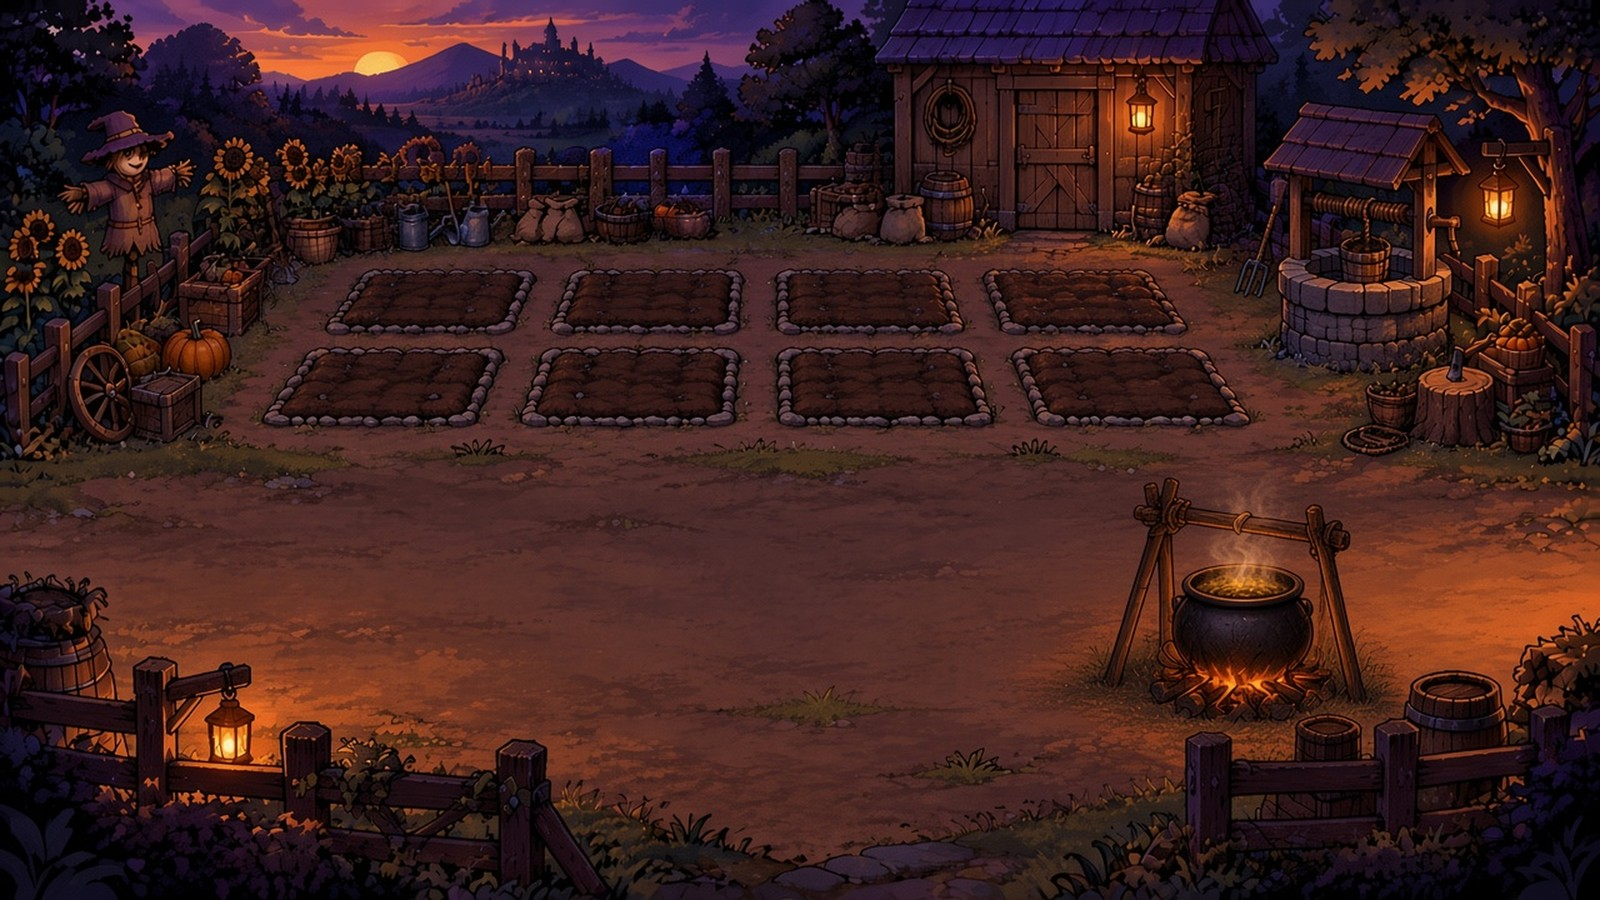
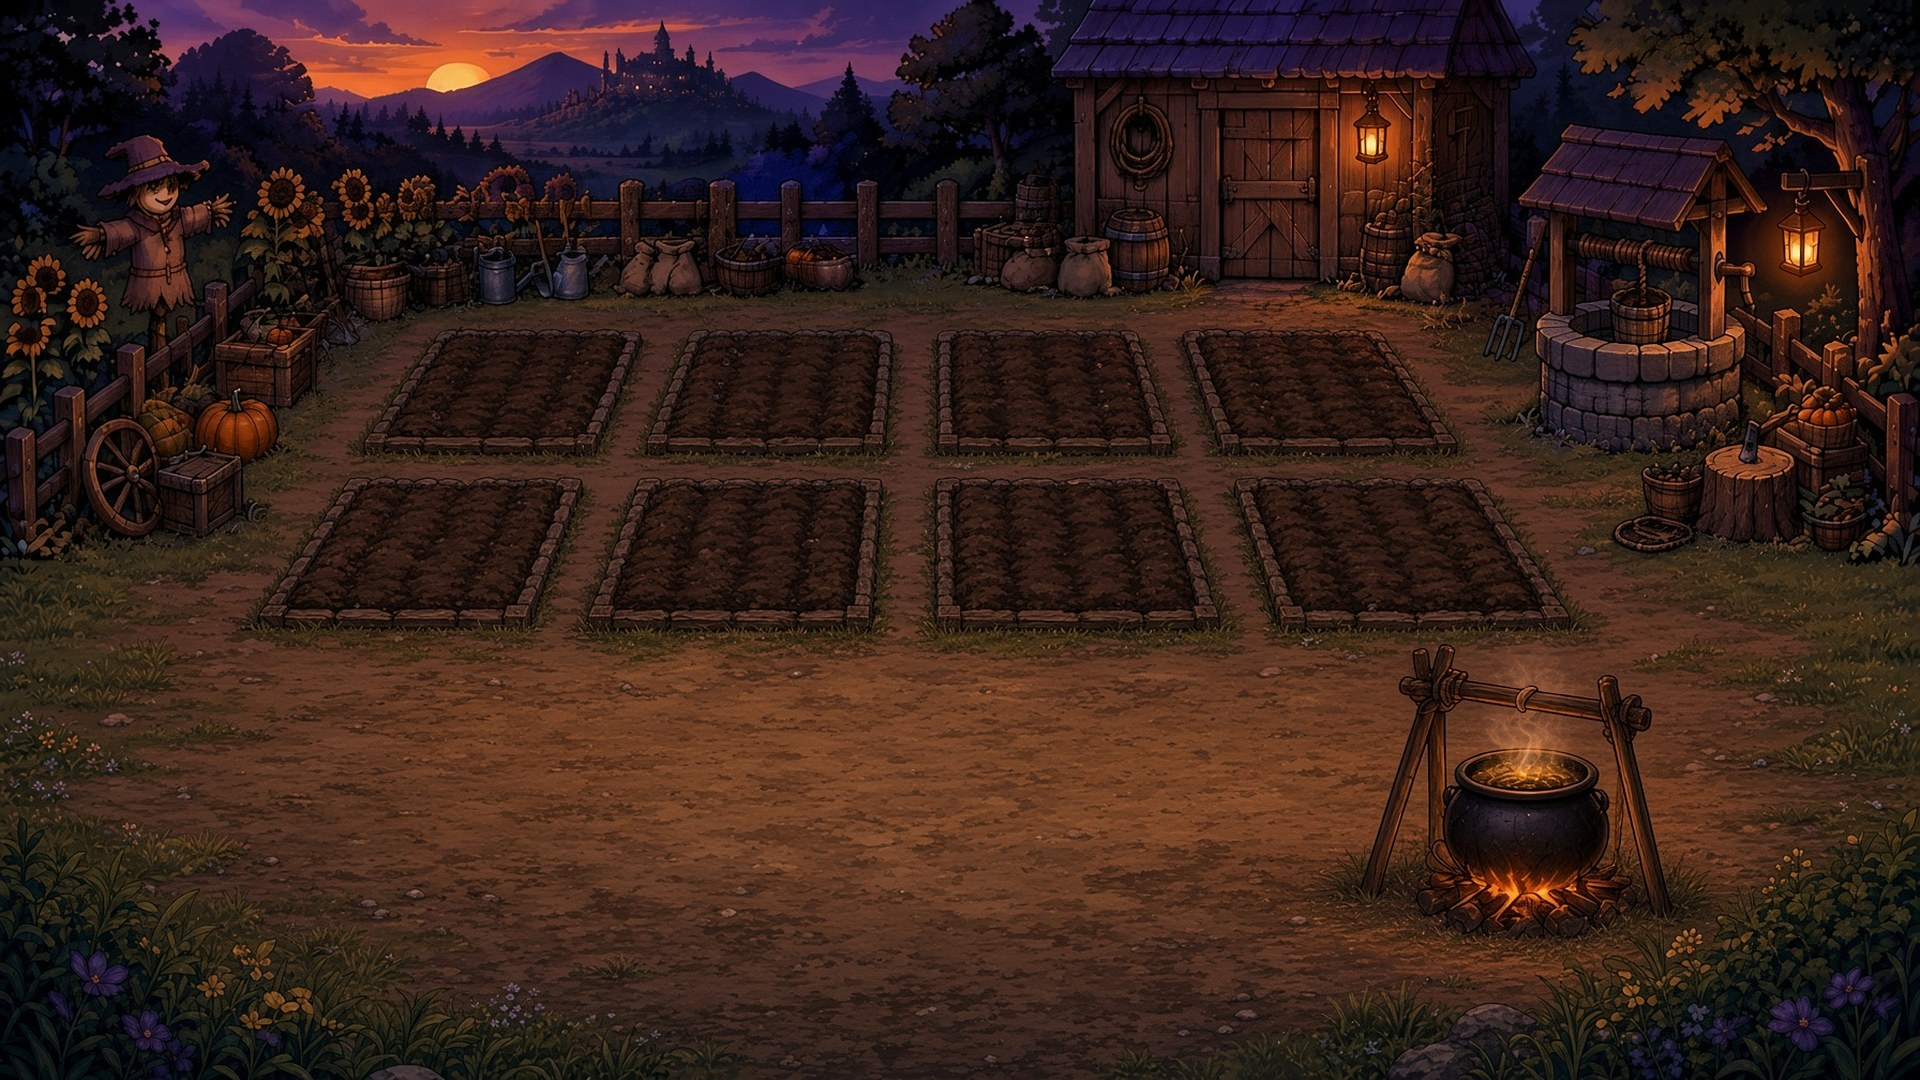
новый огород + живой фон огорода
Claude-Session: https://claude.ai/code/session_016vnxAXxP6rRycVd2Q33YK3

diff --git a/live6.js b/live6.js
@@ -13,7 +13,13 @@
       flags: [[324, 290, 157, 298, 0, 0, 306], [863, 300, 139, 278, 157, 0, 306], [1523, 308, 136, 280, 296, 0, 306], [2043, 290, 149, 306, 432, 0, 306]], // [x, y, w, h, x в атласе, y флага, y подложки]
       windows: [[1446, 223, 4], [1431, 254, 4], [1524, 253, 4], [1524, 264, 12], [1310, 261, 3], [1537, 267, 10], [1480, 291, 14], [1476, 293, 15], [1354, 323, 11], [1320, 329, 10], [1386, 334, 29], [1413, 340, 10], [1527, 386, 37], [1534, 393, 34]],
       flies: [[20, 1030, 470, 1400], [2085, 1030, 2540, 1400]], leaves: true, birds: true
-    }
+    },
+    garden: {
+      sky: 'garden_sky.png', stars: [[381,12,0.81,0.89,1.46],[121,4,0.63,1.52,0.65],[520,40,1.03,3.22,0.65],[221,51,0.58,1.83,0.71],[429,6,0.83,6.16,1.24],[552,43,0.56,2.09,2.14],[241,17,0.67,0.63,0.7],[268,53,0.95,0.73,1.27],[435,0,0.69,6.1,1.89],[622,2,0.65,2.48,1.97],[528,1,1.04,2.07,1.07],[150,9,0.56,3.66,0.99],[315,39,1.14,5.14,1.0],[212,13,0.53,6.05,0.98],[140,16,0.66,3.51,1.96],[573,27,1.14,1.28,0.63],[123,5,0.62,2.32,1.52],[269,11,0.75,5.6,2.17],[279,9,0.55,3.43,1.78],[164,11,0.95,6.24,2.01],[616,18,0.97,1.27,0.87],[494,41,0.78,1.57,1.61],[410,27,0.77,3.66,1.11],[278,17,0.85,5.26,1.96],[346,14,0.82,1.73,0.94],[278,51,0.82,0.16,1.93],[236,57,0.58,3.36,1.62],[405,25,1.08,1.61,1.74],[458,11,0.79,5.61,1.22],[252,27,0.67,2.45,0.74],[341,8,1.15,2.88,2.07],[532,16,0.99,6.14,0.66],[318,29,0.51,1.78,1.76],[279,29,1.14,3.94,1.16],[398,27,1.04,1.22,0.75],[490,16,1.01,1.63,0.76],[258,25,0.78,4.3,0.63],[217,3,0.53,3.46,1.42],[300,24,0.63,1.28,1.94],[126,17,1.17,2.9,1.82],[338,12,0.86,0.1,2.03],[528,35,1.14,4.68,1.84],[378,9,1.06,1.89,0.76],[485,32,0.81,3.17,1.82],[201,33,0.68,5.69,1.48],[606,3,0.51,1.54,0.67],[499,5,0.87,5.89,1.76],[235,6,0.94,2.86,0.93],[254,46,0.81,4.19,1.33],[280,37,1.01,1.5,0.78],[490,24,1.17,3.15,1.64],[124,1,0.69,2.67,1.6],[209,28,0.88,0.46,0.74],[245,57,1.07,3.92,1.83],[528,49,1.07,2.32,1.65],[292,28,0.75,4.56,1.19],[240,41,1.0,3.58,2.07],[173,3,0.94,0.9,1.79],[225,53,1.15,5.75,0.99],[343,41,0.64,2.67,1.07]],
+      fire: [2029, 1193], steam: [2029, 1007], fireR: 0.6,
+      windows: [[1826, 139, 60], [2400, 307, 60]],
+      flies: [[20, 1150, 500, 1420], [2100, 1150, 2540, 1420]], leaves: true, birds: true
+    },
   };
   const ALL = ['clouds', 'stars', 'shoot', 'daynight', 'fire', 'sparks', 'steam', 'windows', 'flags', 'ffly', 'leaves', 'birds'];
   const rnd = (a, b) => a + Math.random() * (b - a);
@@ -98,7 +104,7 @@
       ctx.save(); ctx.globalAlpha = 0.18 * (1 - nk); ctx.globalCompositeOperation = 'soft-light'; ctx.fillStyle = '#ff9a5a'; ctx.fillRect(0, 0, W, H); ctx.restore();
     }
     const F = L.fire;
-    if (F && on('fire')) { const fl = 0.85 + 0.1 * Math.sin(T * 9) + 0.07 * Math.sin(T * 23 + 1) + 0.05 * Math.sin(T * 41), R = (430 + 85 * nk) * fl, fy = F[1] - 28;
+    if (F && on('fire')) { const fl = 0.85 + 0.1 * Math.sin(T * 9) + 0.07 * Math.sin(T * 23 + 1) + 0.05 * Math.sin(T * 41), R = (430 + 85 * nk) * fl * (L.fireR || 1), fy = F[1] - 28;
       ctx.save(); ctx.globalCompositeOperation = 'lighter';
       let g = ctx.createRadialGradient(F[0], fy, 0, F[0], fy, R); g.addColorStop(0, `rgba(255,150,60,${0.30 + 0.15 * nk})`); g.addColorStop(.35, `rgba(255,110,40,${0.10 + 0.06 * nk})`); g.addColorStop(1, 'rgba(255,90,30,0)'); ctx.fillStyle = g; ctx.fillRect(F[0] - R, fy - R, R * 2, R * 2);
       g = ctx.createRadialGradient(F[0], F[1] - 14, 0, F[0], F[1] - 14, 86 * fl); g.addColorStop(0, 'rgba(255,210,120,.35)'); g.addColorStop(1, 'rgba(255,160,60,0)'); ctx.fillStyle = g; ctx.fillRect(F[0] - 100, F[1] - 114, 200, 200);

diff --git a/panel.js b/panel.js
@@ -66,7 +66,7 @@
   // ---------- Отрисовка ----------
   // v48: у каждого босса своё логово — game.js v48 шлёт boss.lair (например boss_queen) → img/boss_queen.jpg. Нет поля (старая игра) или файла — общее img/boss.jpg.
   function lairOf(l) { const lr = l === 'boss' && state && state.boss && state.boss.lair; return lr && /^boss_[a-z0-9_]{1,24}$/.test(lr) && !imgs['!' + lr] ? lr : l; }
-  function img(l) { l = lairOf(l); if (!imgs[l]) { const i = imgs[l] = new Image(), k = l; i.onload = draw; if (k !== 'boss' && /^boss_/.test(k)) i.onerror = () => { imgs['!' + k] = 1; delete imgs[k]; draw(); }; i.src = 'img/' + l + '.jpg?v=' + (l === 'camp' ? 'live1' : 'locations-final-v1'); } return imgs[l]; }
+  function img(l) { l = lairOf(l); if (!imgs[l]) { const i = imgs[l] = new Image(), k = l; i.onload = draw; if (k !== 'boss' && /^boss_/.test(k)) i.onerror = () => { imgs['!' + k] = 1; delete imgs[k]; draw(); }; i.src = 'img/' + l + '.jpg?v=' + (l === 'camp' ? 'live1' : l === 'garden' ? 'live2' : 'locations-final-v1'); } return imgs[l]; }
   function curLoc() { const me = state && state.me; return tab === 'me' ? (me ? me.loc : (state && state.cam) || 'camp') : tab; }
   // v7panel3b: на превью — спрайты героев как в игре (класс, пол, волосы, окраска сета, взгляд), свой — со звёздочкой и подсветкой; нет спрайта → точка
   // v7panel4 п.11: спрайты на превью выключены (лагали и не совпадали по цвету с игрой) — цветные точки класса. Код спрайтов оставлен: SPRITES = true вернёт их.

diff --git a/bigscreen.js b/bigscreen.js
@@ -363,7 +363,7 @@
 
   function bgOf(l, st) {
     if (l === 'boss' && st && st.boss && st.boss.lair && /^boss_[a-z0-9_]{1,24}$/.test(st.boss.lair)) return 'img/' + st.boss.lair + '.jpg?v=bs518';
-    return 'img/' + (l || 'camp') + '.jpg?v=' + (l === 'camp' || !l ? 'live1' : 'bs518');
+    return 'img/' + (l || 'camp') + '.jpg?v=' + (l === 'camp' || !l ? 'live1' : l === 'garden' ? 'live2' : 'bs518');
   }
 
   let lastDefs = [], lastMore = [], sheetKind = '', tipCmds = new Set();
@@ -1693,7 +1693,7 @@
   function liveTick() {
     liveRaf = 0;
     const cv = $('#bsLive'), img = $('#bsBg'), root = $('#bs');
-    const vl = (root && root.dataset.view) || bsLoc, ok = on && cv && img && window.LIVE6 && LIVE6.has(vl) && /\/camp\.jpg/.test(img.getAttribute('src') || '') === (vl === 'camp') && !document.hidden; // v8.6: только для показанной локации
+    const vl = (root && root.dataset.view) || bsLoc, ok = on && cv && img && window.LIVE6 && LIVE6.has(vl) && new RegExp('/' + vl + '\\.jpg').test(img.getAttribute('src') || '') && !document.hidden; // v8.6: только для показанной локации
     if (!ok) { if (cv) cv.hidden = true; if (root) root.classList.remove('live-on'); return; }
     if (!img.complete || !img.naturalWidth) { setTimeout(liveKick, 200); return; }
     const g = cv.getContext('2d'); g.setTransform(1, 0, 0, 1, 0, 0); g.imageSmoothingEnabled = true; g.drawImage(img, 0, 0, cv.width, cv.height);

diff --git a/index.html b/index.html
@@ -11,5 +11,5 @@
 <header><h1>📜 Команды для чата</h1><input id="q" type="search" placeholder="Поиск команды: поход, грядка, босс…" aria-label="Поиск"><nav id="nav"></nav></header>
 <main id="list"></main></details>
 <footer>Кнопки выполняют действие от вашего Twitch-ника, без сообщений в чат. Результат показывается под кнопками.</footer>
-<script src="config.js"></script><script src="commands.js?v=bs528"></script><script src="actions.js?v=h8c"></script><script src="img/h/heroes.js?v=h8b"></script><script src="sprites.js?v=live4"></script><script src="panel.js?v=live1"></script><script src="app.js"></script><script src="season.js?v=tr495"></script><script src="live6.js?v=live3"></script><script src="changelog.js?v=live1"></script><script src="bigscreen.js?v=live13"></script>
+<script src="config.js"></script><script src="commands.js?v=bs528"></script><script src="actions.js?v=h8c"></script><script src="img/h/heroes.js?v=h8b"></script><script src="sprites.js?v=live4"></script><script src="panel.js?v=live14"></script><script src="app.js"></script><script src="season.js?v=tr495"></script><script src="live6.js?v=live14"></script><script src="changelog.js?v=live14"></script><script src="bigscreen.js?v=live14"></script>
 </body></html>

diff --git a/changelog.js b/changelog.js
@@ -2,6 +2,10 @@
 // Показывается на пульте (блок над вкладками) и на большом экране (кнопка «🆕 Что нового»). Непрочитанное подсвечивается (localStorage).
 (function () {
   const NEWS = [
+    { id: 'live2', d: '24.11', t: 'Новый огород', l: [
+      'Огород перерисован: 8 грядок, сарай, колодец, пугало и котёл у костра. Растения растут ровно по центру грядки.',
+      'Огород тоже живой: облака, закат и ночь, пар из котла, огонь под котлом, светлячки.'
+    ] },
     { id: 'live1', d: '24.11', t: 'Живой лагерь', l: [
       'Лагерь перерисован в стиле героев: походные палатки гильдий, костёр с котелком, вечерний лес и замок вдали.',
       'Фон ожил: плывут облака, мерцают звёзды, вечер сменяется ночью, костёр светит и искрит, флаги колышутся на ветру, изредка пролетают птицы.'
